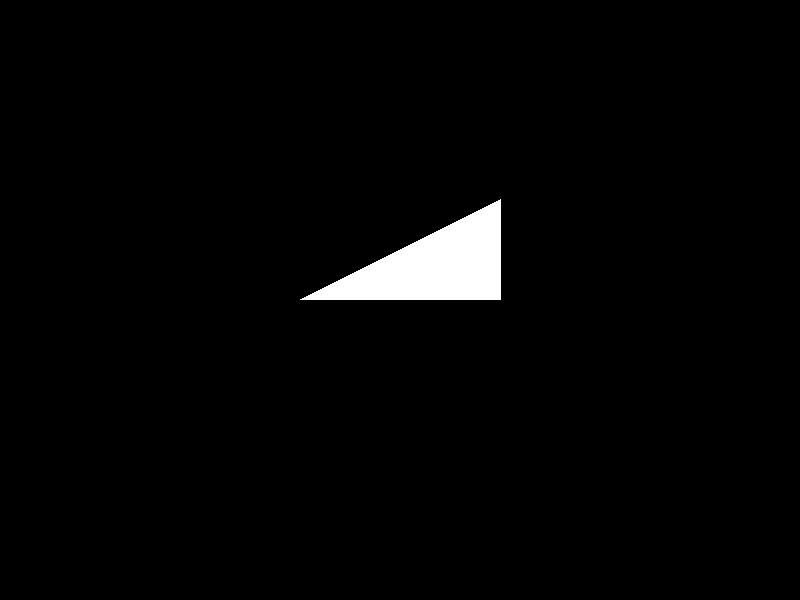
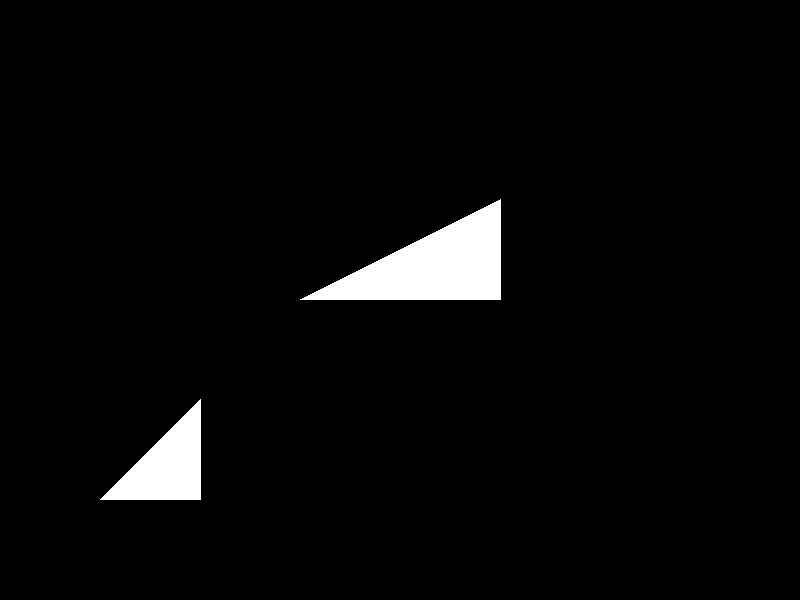
got it working through finding areas of triangles (had to look it up)

Changed region(s): [[0.125, 0.66, 0.25, 0.84]]

diff --git a/main.cpp b/main.cpp
@@ -16,6 +16,10 @@
 using namespace std;
 using namespace glm;
 
+inline float area_of_triangle(vec2 *p1, vec2 *p2, vec2 *p3) {
+  return std::abs((p1->x*(p2->y - p3->y)+p2->x*(p3->y - p1->y) + p3->x*(p1->y - p2->y)) / 2);
+}
+
 int main() {
   uint8_t *data = (uint8_t*) malloc(sizeof(uint8_t) * WIDTH * HEIGHT * COLORCHANNEL);
   
@@ -25,17 +29,17 @@ int main() {
     vec2(100, 100), vec2(200, 100), vec2(200, 200),
   };
 
-  vector<vector<float>> lines;
-  for (int i = 0; i<vertices.size(); i+=3) {
-    lines.push_back({vertices[i].y - vertices[i+1].y, vertices[i+1].x - vertices[i].x, vertices[i+1].x * vertices[i].y - vertices[i].x * vertices[i+1].y});
-    lines.push_back({vertices[i].y - vertices[i+2].y, vertices[i+2].x - vertices[i].x, vertices[i+2].x * vertices[i].y - vertices[i].x * vertices[i+2].y});
-    lines.push_back({vertices[i+1].y - vertices[i+2].y, vertices[i+2].x - vertices[i+1].x, vertices[i+2].x * vertices[i+1].y - vertices[i+1].x * vertices[i+2].y});
-  }
   bool b = false;
   for (int y = 0; y<HEIGHT; y++) {
     for (int x = 0; x<WIDTH; x++) {
-      for (int i = 0; i<lines.size(); i+=3) {
-        if ((lines[i][0]*x + lines[i][1]*y - lines[i][2]) <= 0 && (lines[i+1][0]*x + lines[i+1][1]*y - lines[i+1][2]) >= 0 && (lines[i+2][0]*x + lines[i+2][1]*y - lines[i+2][2]) <= 0) {
+      for (int i = 0; i<vertices.size(); i+=3) {
+        vec2 p = glm::vec2(x,y);
+        float at = area_of_triangle(&vertices[i], &vertices[i+1], &vertices[i+2]);
+        float a1 = area_of_triangle(&p, &vertices[i], &vertices[i+1]);
+        float a2 = area_of_triangle(&p, &vertices[i+1], &vertices[i+2]);
+        float a3 = area_of_triangle(&p, &vertices[i], &vertices[i+2]);
+
+        if ((a1+a2+a3) == at) {
           data[index++] = 255;
           data[index++] = 255;
           data[index++] = 255;
